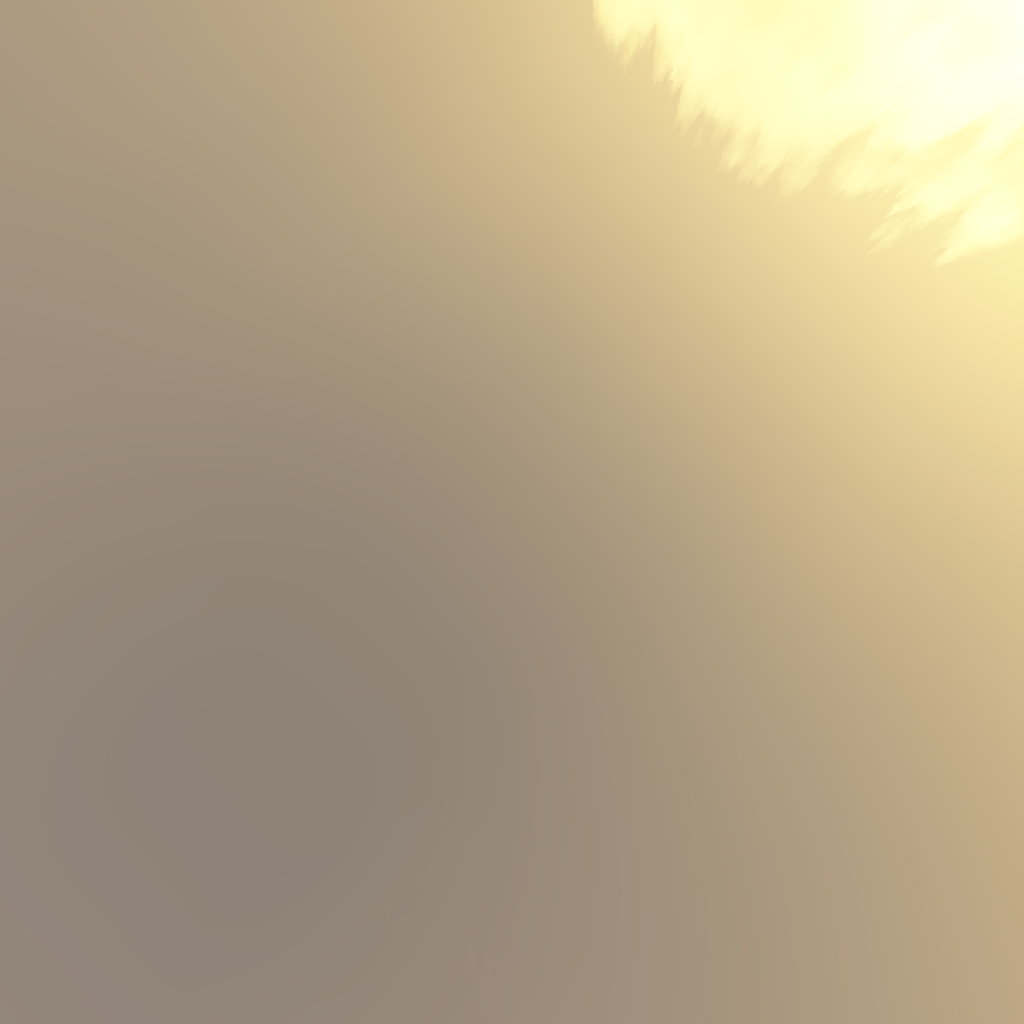
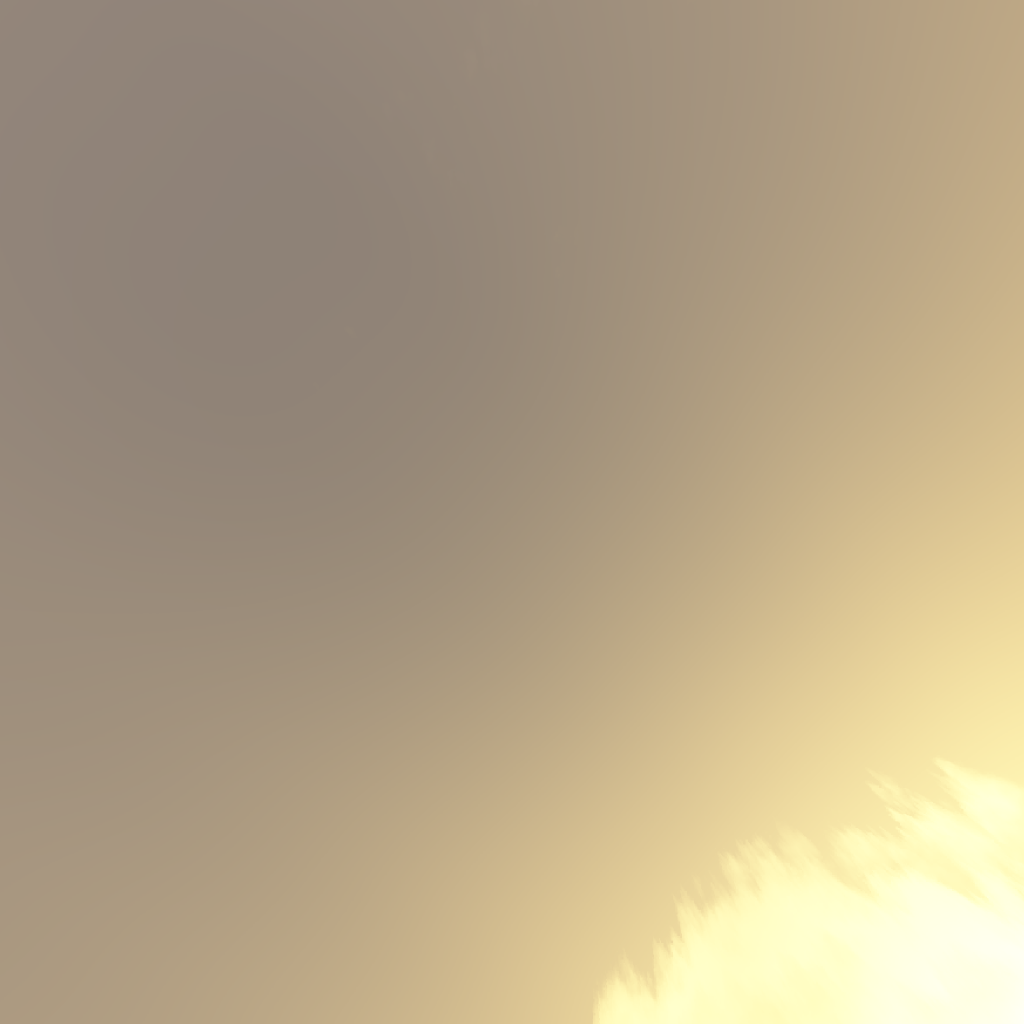
Fixing Stupid Skybox

diff --git a/MotionPlanning/MotionPlanning/Main.cpp b/MotionPlanning/MotionPlanning/Main.cpp
@@ -127,8 +127,8 @@ int main(int argc, char* argv[]) {
     MotionPlanner motionPlanner = MotionPlanner(cSpace);
     AgentManager agentManager = AgentManager(&motionPlanner);
 
-    vector<std::string> faces = {"images/right2.png",  "images/left2.png", "images/top2.png",
-                                 "images/bottom2.png", "images/back2.png", "images/front2.png"};
+    vector<std::string> faces = {"images/right2.png",  "images/left2.png", "images/bottom2.png",
+                                 "images/top2.png", "images/back2.png", "images/front2.png"};
     Skybox skybox = Skybox(faces);
 
     // Render the axes

diff --git a/MotionPlanning/MotionPlanning/Skybox.cpp b/MotionPlanning/MotionPlanning/Skybox.cpp
@@ -53,8 +53,7 @@ void Skybox::Update(glm::mat4 view, glm::mat4 proj) {
         // Draw Skybox //
         glUseProgram(skyShader);
         glm::mat4 newview = glm::mat4(glm::mat3(view));
-        newview = glm::rotate(newview, (float)M_PI / 2, glm::vec3(1.f, 0.0f, 0.0f));
-        newview = glm::rotate(newview, (float)M_PI / 4, glm::vec3(0.f, 1.0f, 0.0f));
+                newview = glm::rotate(newview, -90.f, glm::vec3(1.f, 0.f, 0.f));
         glBindVertexArray(skyboxVAO);
         glBindBuffer(GL_ARRAY_BUFFER, skyboxVBO);
         glActiveTexture(GL_TEXTURE0);
